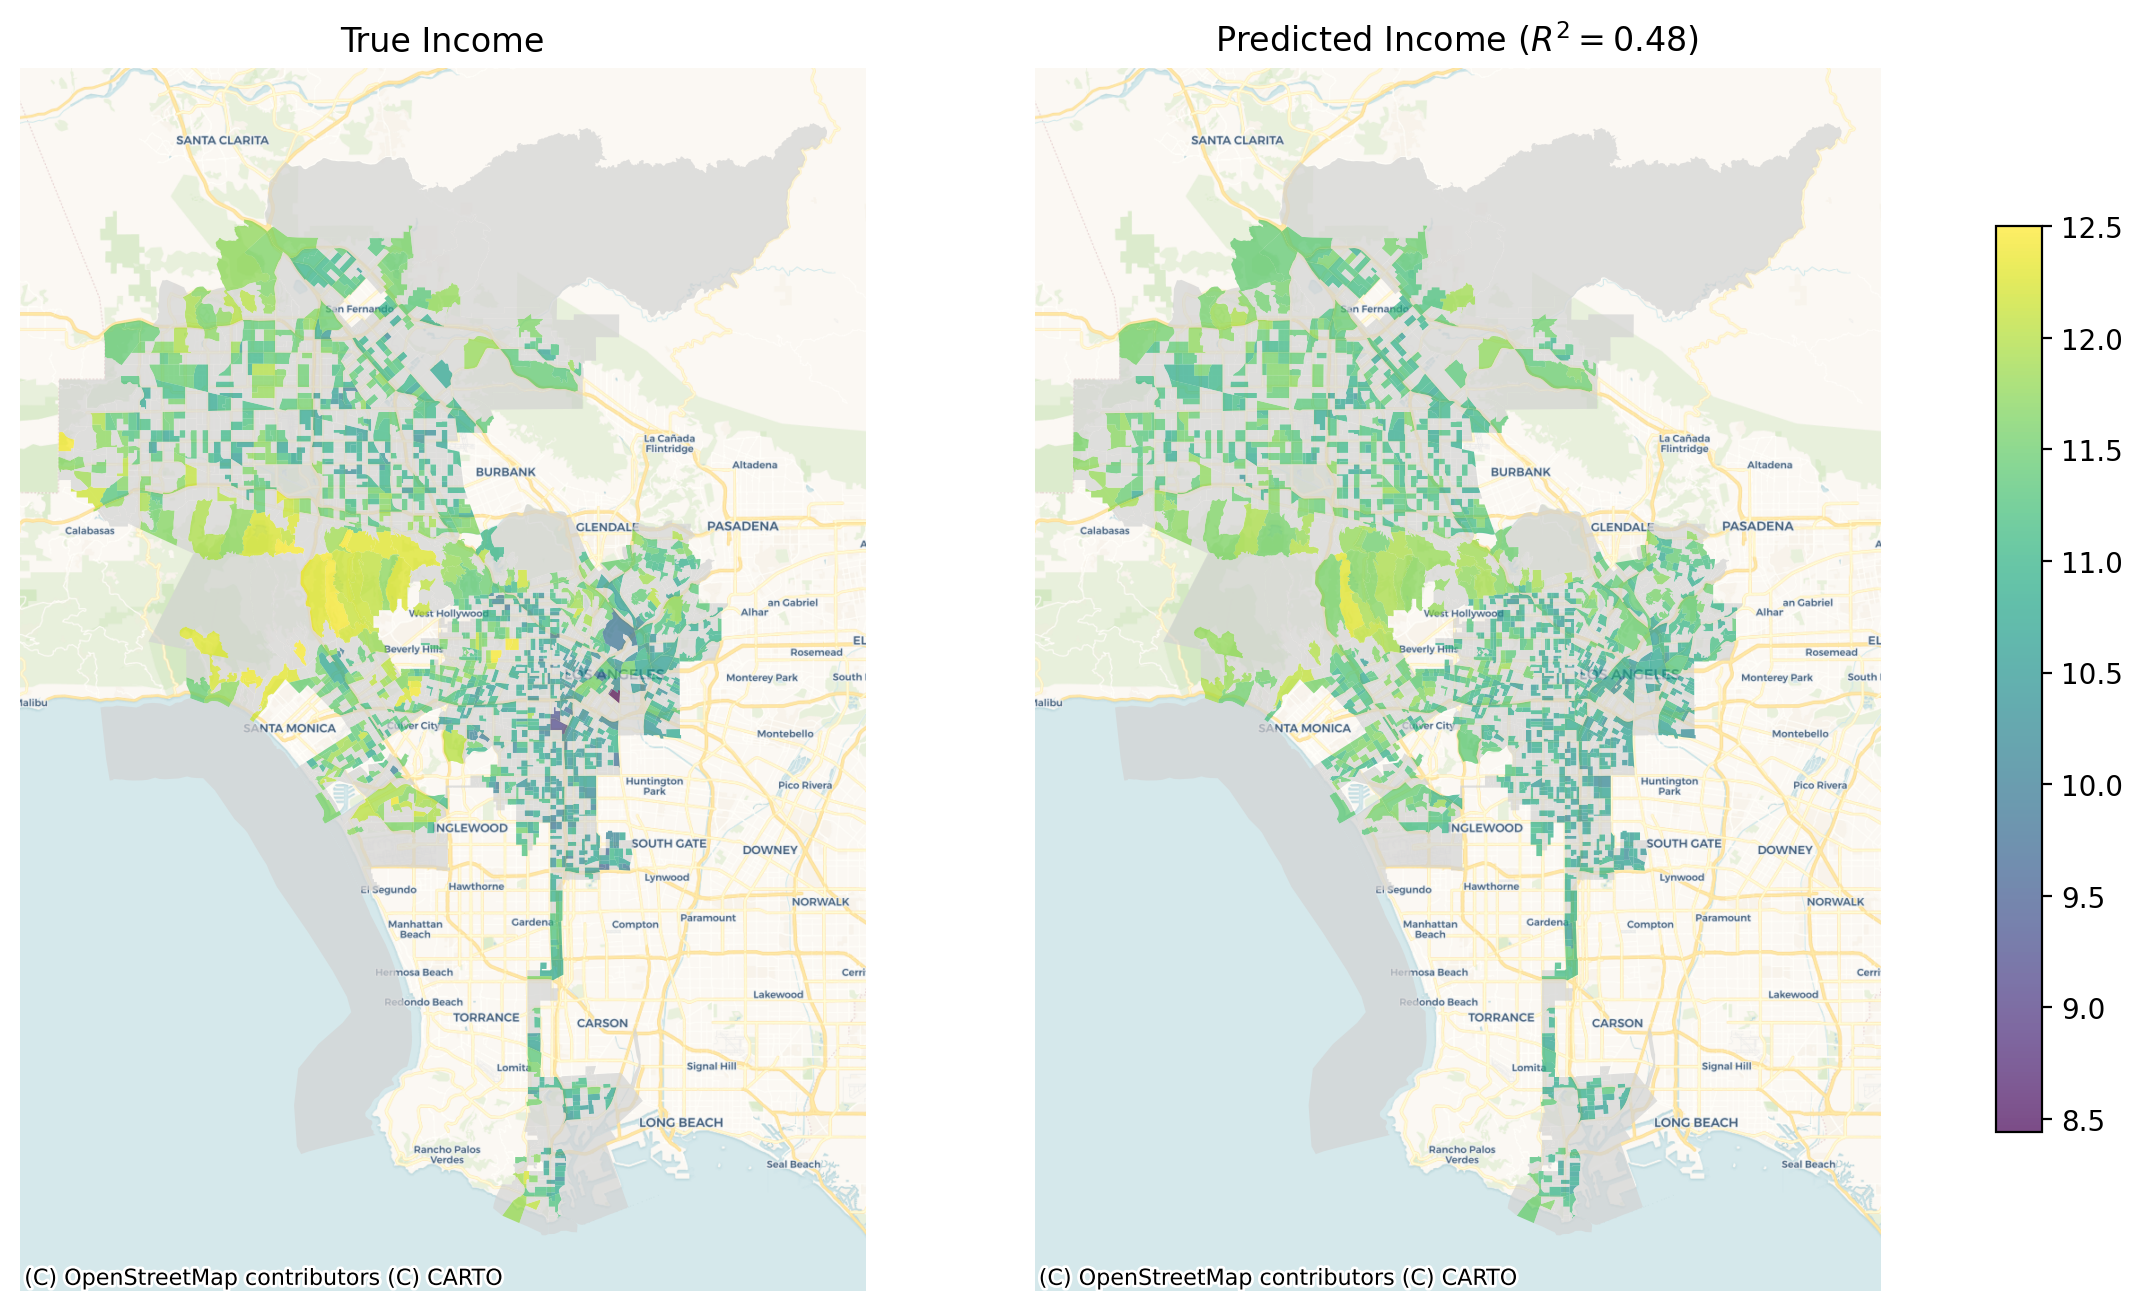
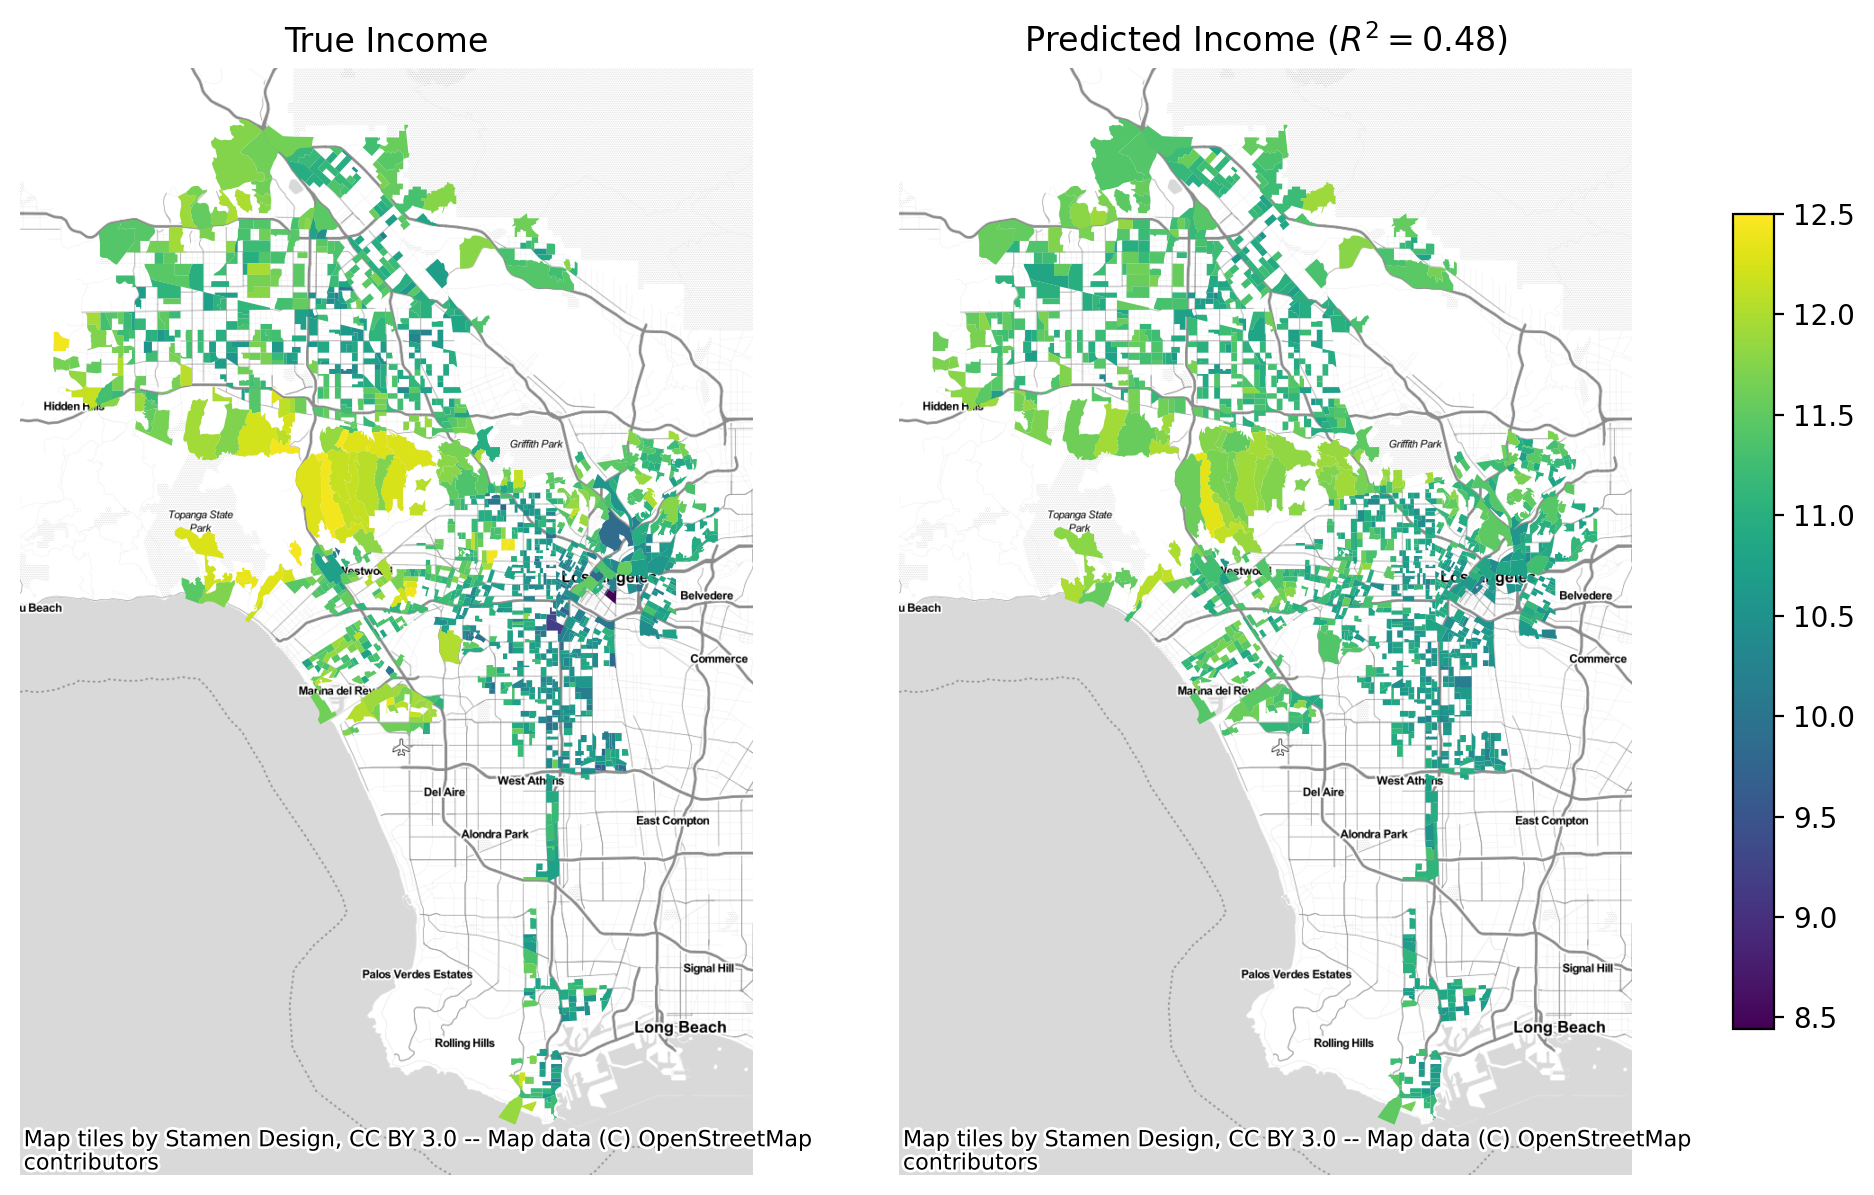
add README.md

diff --git a/models.py b/models.py
@@ -1,11 +1,9 @@
 import json
-import numpy as np
 import pandas as pd
-from sklearn.preprocessing import MinMaxScaler
-from sklearn.linear_model import LinearRegression
-from sklearn.svm import SVR
-from sklearn.model_selection import train_test_split
 from data.acs_load import acs_load
+from sklearn.model_selection import train_test_split
+from sklearn.preprocessing import MinMaxScaler
+from sklearn.svm import SVR
 import matplotlib.pyplot as plt
 import contextily as ctx
 
@@ -56,9 +54,10 @@ def load_data(city="Los Angeles", split=False):
 if __name__ == "__main__":
     city = "Los Angeles"
     geometries, X, y = load_data(city)
+    X = X[:, 2:]  # Remove latitude-longitude
 
     # Model objects
-    svr = SVR(C=20, gamma=0.0001)
+    svr = SVR(C=0.005, kernel="linear")
 
     # Train-test split
     X_train, X_test, y_train, y_test = train_test_split(X, y, test_size=0.5,
@@ -85,19 +84,21 @@ if __name__ == "__main__":
                                                 how="left",
                                                 left_index=True,
                                                 right_index=True)
-    # Conver geography to Web Mercator (EPSG 3857)
+    # Convert geography to Web Mercator (EPSG 3857)
     comparison = comparison.to_crs(epsg=3857)
     # Plot predictions vs actual
     fig, axes = plt.subplots(1, 2, sharex=True, sharey=True, dpi=200,
-                             figsize=(15, 10))
+                             figsize=(13, 9))
     comparison.plot(column="log_B19013001", ax=axes[0], cmap="viridis",
-                    missing_kwds={"color": "lightgrey"}, alpha=0.7,
+                    # missing_kwds={"color": "lightgrey"},
+                    alpha=1,
                     vmin=8.44, vmax=12.5)
-    ctx.add_basemap(ax=axes[0], source=ctx.providers.CartoDB.Voyager)
+    ctx.add_basemap(ax=axes[0], source=ctx.providers.Stamen.TonerLite)
     comparison.plot(column="predictions", ax=axes[1], cmap="viridis",
-                    missing_kwds={"color": "lightgrey"}, alpha=0.7,
+                    # missing_kwds={"color": "lightgrey"},
+                    alpha=1,
                     vmin=8.44, vmax=12.5)
-    ctx.add_basemap(ax=axes[1], source=ctx.providers.CartoDB.Voyager)
+    ctx.add_basemap(ax=axes[1], source=ctx.providers.Stamen.TonerLite)
     cols = axes[0].collections[0]
     colbar = fig.colorbar(cols, ax=axes, shrink=0.6)
     fig.patch.set_visible(False)
@@ -105,50 +106,34 @@ if __name__ == "__main__":
     axes[1].axis("off")
     axes[0].set_title("True Income")
     axes[1].set_title("""Predicted Income $(R^2 = 0.48)$""")
-    # plt.savefig("./model visualizations/predictions_map.png",
-    #             bbox_inches="tight")
+    plt.savefig("./model visualizations/predictions_map.png",
+                bbox_inches="tight")
     plt.show()
 
-    # Scatter test set predictions
-    plt.figure(dpi=200)
-    plt.scatter(comparison["predictions"], comparison["log_B19013001"],
-                s=2, color="#4A89F3")
-    plt.xlabel("Predicted Log Income")
-    plt.ylabel("True Log Income")
-    plt.xlim(9, 13)
-    plt.ylim(8, 13)
-    plt.axline(xy1=(0, 0), slope=1, linestyle="--", color="#EA4335")
-    # plt.savefig("./model visualizations/predictions_scatter.png",
-    #             bbox_inches="tight")
-    plt.show()
-
-    # Scatter train set predictions
-    plt.figure(dpi=200)
-    plt.scatter(svr.predict(X_train), y_train,
-                s=2, color="#4A89F3")
-    plt.xlabel("Predicted Log Income")
-    plt.ylabel("True Log Income")
-    plt.xlim(9, 13)
-    plt.ylim(8, 13)
-    plt.axline(xy1=(0, 0), slope=1, linestyle="--", color="#EA4335")
-    # plt.savefig("./model visualizations/predictions_scatter.png",
-    #             bbox_inches="tight")
+    # Scatter predictions
+    fig, axes = plt.subplots(1, 2, sharex=True, sharey=True, figsize=(8, 4),
+                             dpi=200)
+    axes[0].scatter(svr.predict(X_train), y_train,
+                    s=1, color="#4A89F3")
+    axes[0].axline(xy1=(0, 0), slope=1, linestyle="--", color="#EA4335")
+    axes[0].set_xlabel("Predicted Log Income")
+    axes[0].set_ylabel("True Log Income")
+    axes[0].set_xlim(8, 13)
+    axes[0].set_ylim(8, 13)
+    axes[0].set_title("Train Set $(R^2=0.69)$")
+    axes[1].scatter(comparison["predictions"], comparison["log_B19013001"],
+                    s=1, color="#4A89F3")
+    axes[1].axline(xy1=(0, 0), slope=1, linestyle="--", color="#EA4335")
+    axes[1].set_xlabel("Predicted Log Income")
+    axes[1].set_ylabel("True Log Income")
+    axes[1].set_title("Test Set $(R^2=0.48)$")
+    plt.savefig("./model visualizations/predictions_scatter.png",
+                bbox_inches="tight")
     plt.show()
 
     # Test a model on New York
     geometries, X, y = load_data(city="New York")
-    X = X[:, :-1]
+    # X = X[:, 2:]  # Remove longitude-latitude
+    X = X[:, :-1]  # Remove geoid
     X = scaler.fit_transform(X)
     print(svr.score(X, y))
-    # Scatter New York predictions
-    plt.figure(dpi=200)
-    plt.scatter(svr.predict(X), y,
-                s=2, color="#4A89F3")
-    plt.xlabel("Predicted Log Income")
-    plt.ylabel("True Log Income")
-    plt.xlim(9, 13)
-    plt.ylim(8, 13)
-    plt.axline(xy1=(0, 0), slope=1, linestyle="--", color="#EA4335")
-    # plt.savefig("./model visualizations/predictions_scatter.png",
-    #             bbox_inches="tight")
-    plt.show()

diff --git a/models_more.py b/models_more.py
@@ -1,0 +1,123 @@
+import json
+import pandas as pd
+from data.acs_load import acs_load
+import numpy as np
+from sklearn.preprocessing import MinMaxScaler
+from sklearn.model_selection import train_test_split
+from sklearn.model_selection import GridSearchCV
+from sklearn.linear_model import LassoCV
+from sklearn.linear_model import RidgeCV
+from sklearn.svm import SVR
+from sklearn.tree import DecisionTreeRegressor
+from sklearn.ensemble import RandomForestRegressor
+from sklearn.ensemble import GradientBoostingRegressor
+
+
+def load_data(city="Los Angeles", split=False):
+    # VGG16 extracted features
+    X = pd.read_csv(f"X_{city}_vgg16.csv", index_col=0)
+    X["geoid"] = X.index.str.split("_").str[0]
+
+    # Image coordinates
+    with open(f"./data/street_view/{city}/coordinates.geojson") as file:
+        points = json.load(file)
+    coords = []
+    for filename in points.keys():
+        coords.append([f"{filename}.jpeg",
+                       points[filename]["coordinates"][0],
+                       points[filename]["coordinates"][1]])
+    coords = pd.DataFrame(coords, columns=["filename",
+                                           "longitude",
+                                           "latitude"])
+
+    # Median household income
+    geometries = acs_load(cities=[city])[city]
+    geometries = geometries[["geoid", "log_B19013001", "geometry"]]
+    geometries = geometries.set_index("geoid")
+
+    # Join with latitude-longitude
+    X = coords.merge(X, left_on="filename", right_index=True)
+    X.drop(columns="filename", inplace=True)
+
+    # Aggregate by block group
+    X = X.groupby("geoid").mean()
+
+    # Join with geometry and income
+    data = X.merge(geometries["log_B19013001"], left_index=True,
+                   right_index=True)
+
+    # Drop missing
+    data = data.dropna()
+    data["geoid"] = data.index
+
+    X = data.drop(columns=["log_B19013001"]).to_numpy()
+    y = data["log_B19013001"].to_numpy()
+
+    return geometries, X, y
+
+
+if __name__ == "__main__":
+    # Load data
+    city = "Los Angeles"
+    geometries, X, y = load_data(city)
+    X = X[:, 2:]  # Remove latitude-longitude
+
+    # Train-test split
+    X_train, X_test, y_train, y_test = train_test_split(X, y, test_size=0.5,
+                                                        random_state=412)
+    train_index = X_train[:, -1]
+    X_train = X_train[:, :-1]
+    test_index = X_test[:, -1]
+    X_test = X_test[:, :-1]
+
+    # Normalize data
+    scaler = MinMaxScaler(feature_range=(0, 1))
+    X_train = scaler.fit_transform(X_train)
+    X_test = scaler.transform(X_test)
+
+    # Model objects
+    lasso = LassoCV(max_iter=5000, n_alphas=100, cv=3, verbose=True, n_jobs=-1)
+    ridge = RidgeCV(alphas=np.geomspace(0.1, 1.2),cv=3)
+    svr_lin = GridSearchCV(SVR(kernel="linear"),
+                           param_grid={"C": [1, 0.1, 0.01, 0.001, 0.005]},
+                           cv=3, verbose=4, n_jobs=-1)
+    svr_rbf = GridSearchCV(SVR(kernel="rbf"),
+                           param_grid={"C": [1, 0.1, 0.01, 0.001, 0.005],
+                                       "gamma": ["scale", "auto"]},
+                           cv=3, verbose=4, n_jobs=-1)
+    tree = GridSearchCV(DecisionTreeRegressor(random_state=412),
+                        param_grid={"max_depth": [None, 100, 500, 1000],
+                                    "min_samples_leaf": [1, 5, 10, 100]},
+                        cv=3, verbose=4, n_jobs=-1)
+    rf = GridSearchCV(RandomForestRegressor(),
+                      param_grid={"max_depth": [None, 100, 500, 1000],
+                                  "min_samples_leaf": [1, 5, 10, 100]},
+                      cv=3, verbose=4, n_jobs=-1)
+    boosted_trees = GridSearchCV(GradientBoostingRegressor(),
+                                 param_grid={"n_estimators": [10, 50, 100, 200],
+                                             "max_depth": [1, 2, 3, 5, 10]},
+                                 cv=3, verbose=4, n_jobs=-1)
+
+    # Fit models
+    lasso.fit(X_train, y_train)
+    ridge.fit(X_train, y_train)
+    svr_lin.fit(X_train, y_train)
+    svr_rbf.fit(X_train, y_train)
+    tree.fit(X_train, y_train)
+    rf.fit(X_train, y_train)
+    boosted_trees.fit(X_train, y_train)
+
+    svr_lin = svr_lin.best_estimator_
+    svr_rbf = svr_rbf.best_estimator_
+    tree = tree.best_estimator_
+    rf = rf.best_estimator_
+    boosted_trees = boosted_trees.best_estimator_
+
+    # Evaluate models
+    print(lasso.score(X_test, y_test))
+    print(ridge.score(X_test, y_test))
+    print(svr_lin.score(X_test, y_test))
+    print(svr_rbf.score(X_test, y_test))
+    print(tree.score(X_test, y_test))
+    print(rf.score(X_test, y_test))
+    print(boosted_trees.score(X_test, y_test))

diff --git a/vgg16.py b/vgg16.py
@@ -8,46 +8,48 @@ from tensorflow.keras.utils import plot_model
 from tensorflow.keras.preprocessing.image import ImageDataGenerator
 import time
 
-city = "New York"
 
-# Instantiate the VGG16 model
-model = VGG16(include_top=True, weights="imagenet")
-extractor = Model(inputs=model.inputs, outputs=model.get_layer("fc2").output)
+if __name__ == "__main__":
+    city = "New York"
 
-# Plot model architecture
-plot_model(extractor, to_file="model visualizations/vgg16_architecture.png",
-           show_layer_names=True,
-           show_shapes=True,
-           rankdir="TB",  # "TB" creates a vertical plot, "LR" is horizontal
-           dpi=240)
+    # Instantiate the VGG16 model
+    model = VGG16(include_top=True, weights="imagenet")
+    extractor = Model(inputs=model.inputs, outputs=model.get_layer("fc2").output)
 
-# Dataframe to store itermediate outputs
-filenames = os.listdir(f"./data/street_view/{city}/images")
-n = len(filenames)
-X = np.zeros(shape=(n, 4096), dtype="float32")
-X = pd.DataFrame(data=X, index=filenames)
-X["filenames"] = X.index
+    # Plot model architecture
+    plot_model(extractor, to_file="model visualizations/vgg16_architecture.png",
+               show_layer_names=True,
+               show_shapes=True,
+               rankdir="TB",  # "TB" creates a vertical plot, "LR" is horizontal
+               dpi=240)
 
-batch_size = 37
-steps = len(X) // batch_size
+    # Dataframe to store itermediate outputs
+    filenames = os.listdir(f"./data/street_view/{city}/images")
+    n = len(filenames)
+    X = np.zeros(shape=(n, 4096), dtype="float32")
+    X = pd.DataFrame(data=X, index=filenames)
+    X["filenames"] = X.index
 
-datagen = ImageDataGenerator(preprocessing_function=vgg16.preprocess_input)
-image_generator = datagen.flow_from_dataframe(dataframe=X,
-                                              directory=f"./data/street_view/{city}/images",
-                                              x_col="filenames",
-                                              target_size=(224, 224),
-                                              color_mode="rgb",
-                                              class_mode=None,
-                                              batch_size=batch_size,
-                                              shuffle=False)
+    batch_size = 37
+    steps = len(X) // batch_size
 
-for step, batch in zip(range(steps), image_generator):
-    start = time.time()
-    test = batch
-    X.iloc[step*batch_size:(step+1)*batch_size, :4096] = extractor(batch).numpy()
-    print("#" + str(step + 1), time.time() - start)
-image_generator.reset()
+    datagen = ImageDataGenerator(preprocessing_function=vgg16.preprocess_input)
+    image_generator = datagen.flow_from_dataframe(dataframe=X,
+                                                  directory=f"./data/street_view/{city}/images",
+                                                  x_col="filenames",
+                                                  target_size=(224, 224),
+                                                  color_mode="rgb",
+                                                  class_mode=None,
+                                                  batch_size=batch_size,
+                                                  shuffle=False)
 
-# Write outputs to .csv files
-X.drop(columns="filenames", inplace=True)
-X.to_csv(f"X_{city}_vgg16.csv")
+    for step, batch in zip(range(steps), image_generator):
+        start = time.time()
+        test = batch
+        X.iloc[step*batch_size:(step+1)*batch_size, :4096] = extractor(batch).numpy()
+        print("#" + str(step + 1), time.time() - start)
+    image_generator.reset()
+
+    # Write outputs to .csv files
+    X.drop(columns="filenames", inplace=True)
+    X.to_csv(f"X_{city}_vgg16.csv")

diff --git a/data/acs_explore.py b/data/acs_explore.py
@@ -8,6 +8,7 @@ from data.acs_load import acs_load
 
 random.seed(123)
 
+
 def rand_block_groups(city="Los Angeles", save=False):
     """Plots 3 random block groups with their random coordinates."""
     fig, ax = plt.subplots(1, 3, figsize=(10, 5))
@@ -94,14 +95,16 @@ def income_choropleth(city="Los Angeles", log=False, save=False):
     # alternative cmap: "RdYlGn_r"
     if log is True:
         mercator.plot(column="log_B19013001", ax=ax, cmap="plasma",
-                      legend=True, missing_kwds={"color": "lightgrey"},
+                      legend=True,
+                       missing_kwds={"color": "lightgrey"},
                       alpha=0.7)
         ctx.add_basemap(ax=ax, source=ctx.providers.CartoDB.Voyager)
         # ax.set_title(f"Household Income in {city} (Log Dollars)")
 
     else:
         mercator.plot(column="B19013001_thousand", ax=ax, cmap="viridis",
-                      legend=True, missing_kwds={"color": "lightgrey"},
+                      legend=True,
+                       missing_kwds={"color": "lightgrey"},
                       alpha=0.7)
         ctx.add_basemap(ax=ax, source=ctx.providers.CartoDB.Voyager)
         # ax.set_title(f"Household Income in {city} (Thousands of Dollars)")
@@ -125,7 +128,6 @@ if __name__ == "__main__":
 
     for i, row in acs[city].sample(40, random_state=123).iterrows():
         plot_geoid(row["geoid"], row["B19013001_thousand"], save=False)
-
 
     fig, axes = plt.subplots(2, 3)
     geoids = ["15000US060371915001", "15000US060371920023"]

diff --git a/README.md b/README.md
@@ -1,0 +1,10 @@
+## Computer Vision Income Estimation
+
+Estimating median household income using Google Street View.
+
+* `data/streetview_data.py` obtains up to 10 Google Street View images per census block group from the given city
+* `data/acs_data.py` obtains the median household income by census block group from the given city
+* `vgg16.py` extracts image features using VGG16 ConvNet
+* `models.py` fits a $\varepsilon$-SVR model on half the images and tests out-of-sample $R^2$ on the other half
+
+![Alt text](https://raw.githubusercontent.com/l9leung/cv-income-estimation/main/data/visualizations/income_choro_Los%20Angeles.png)
